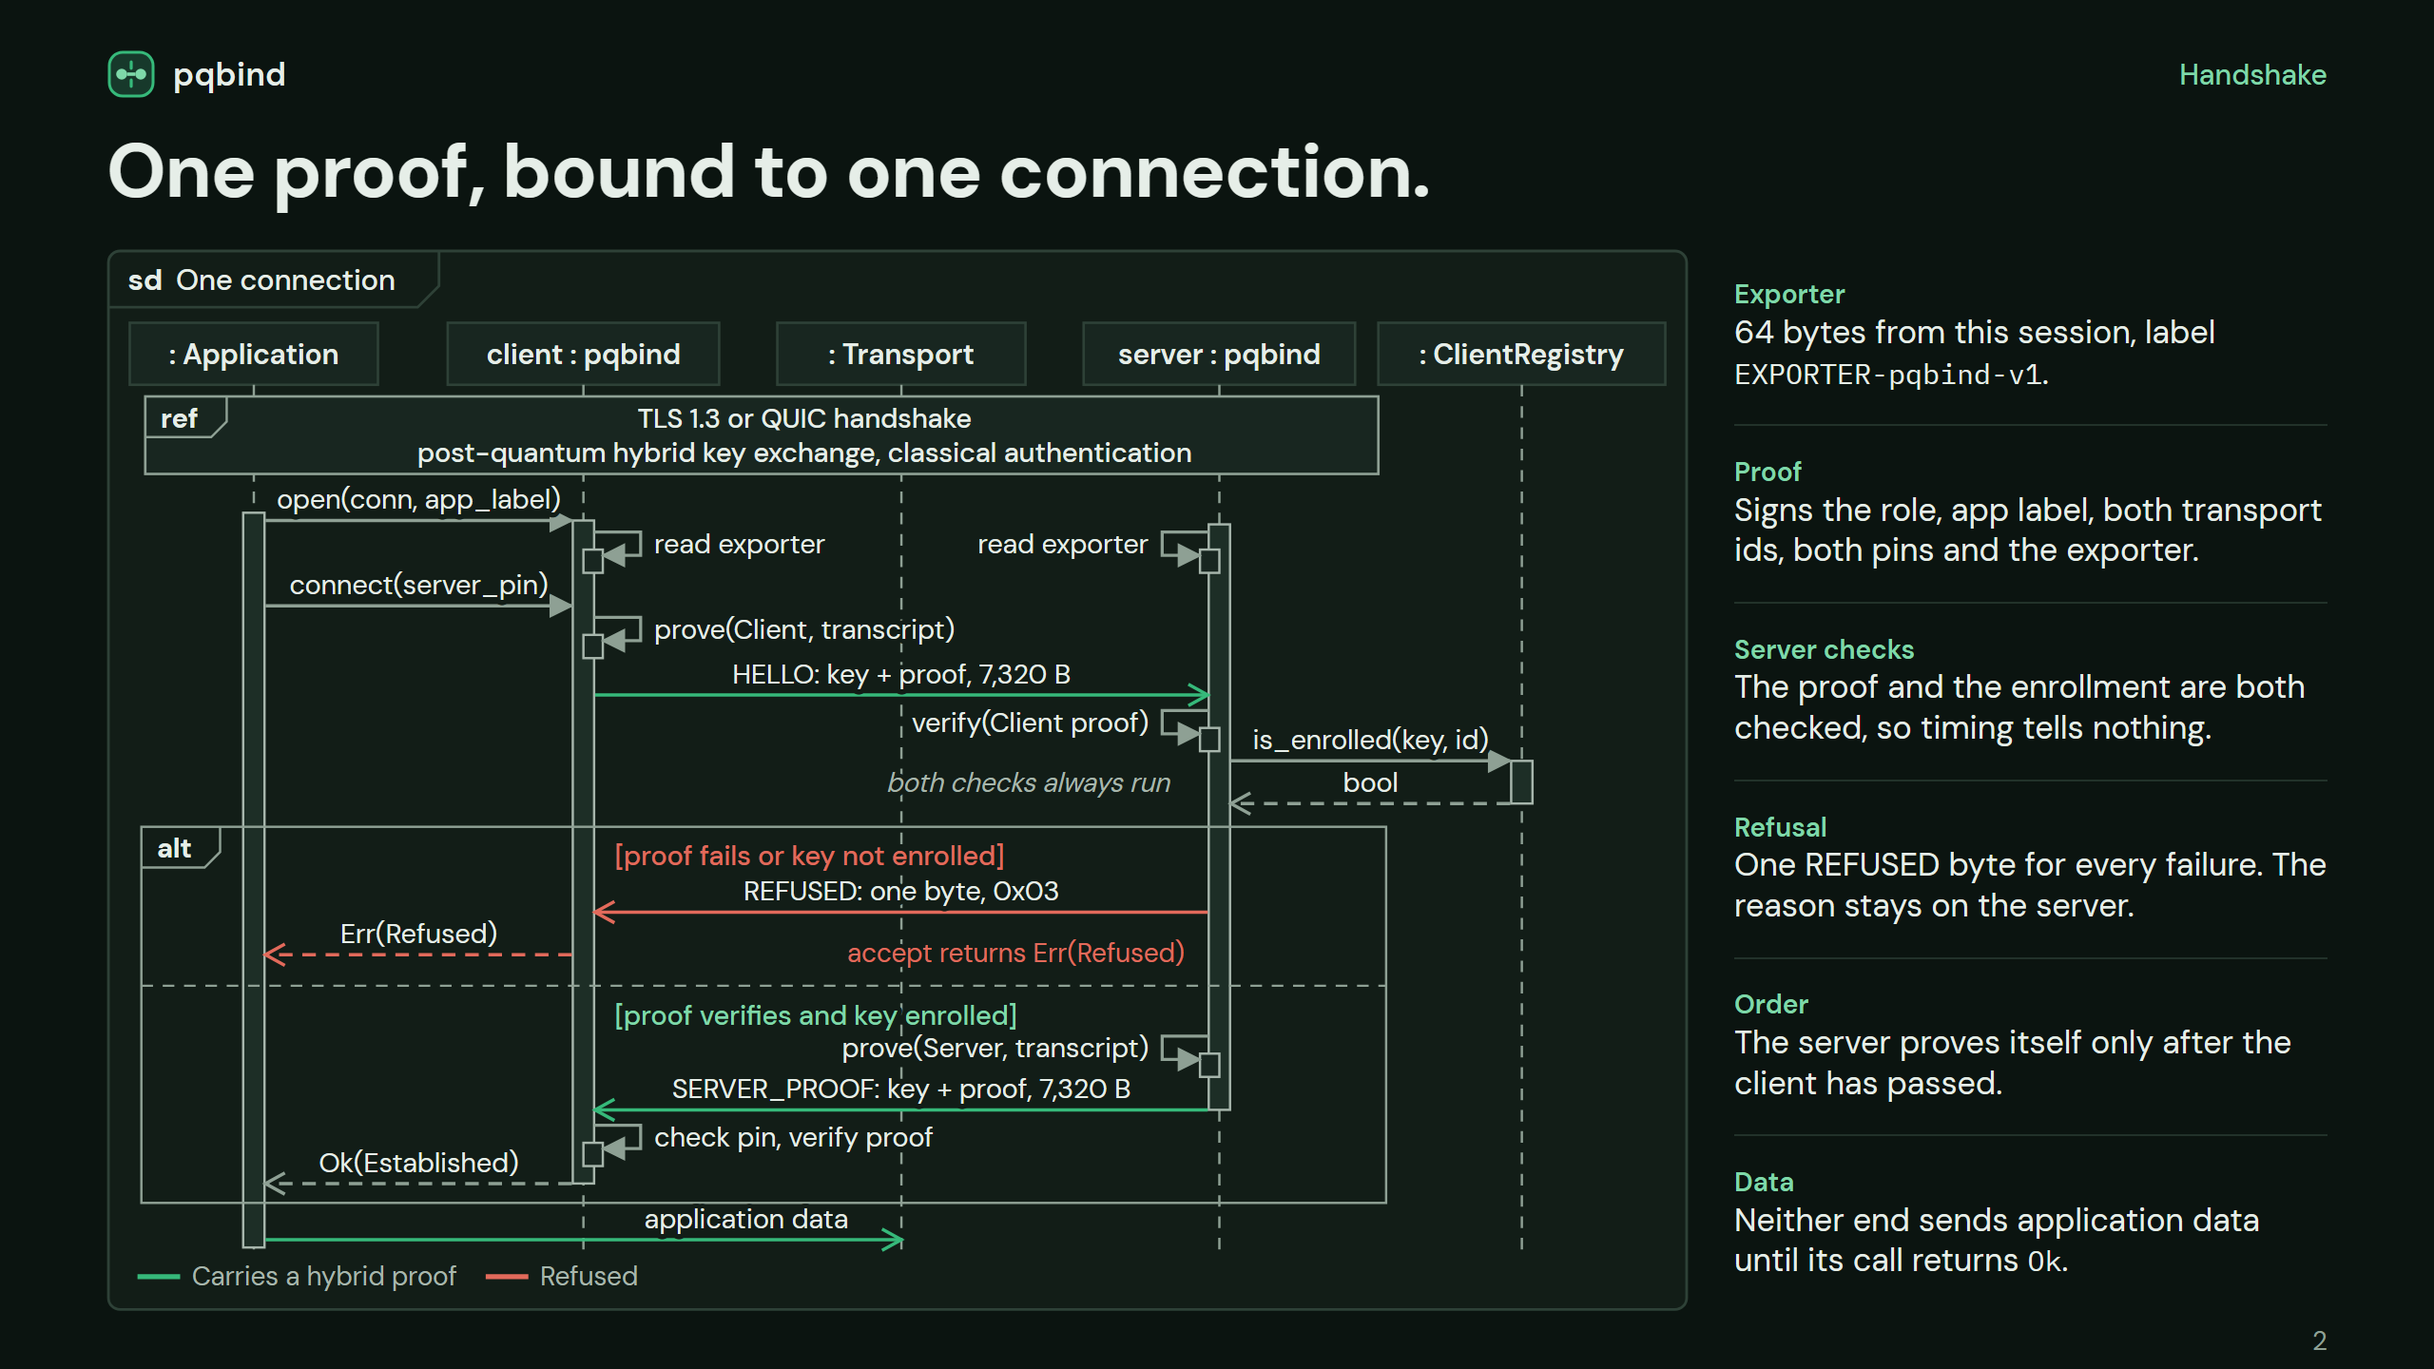
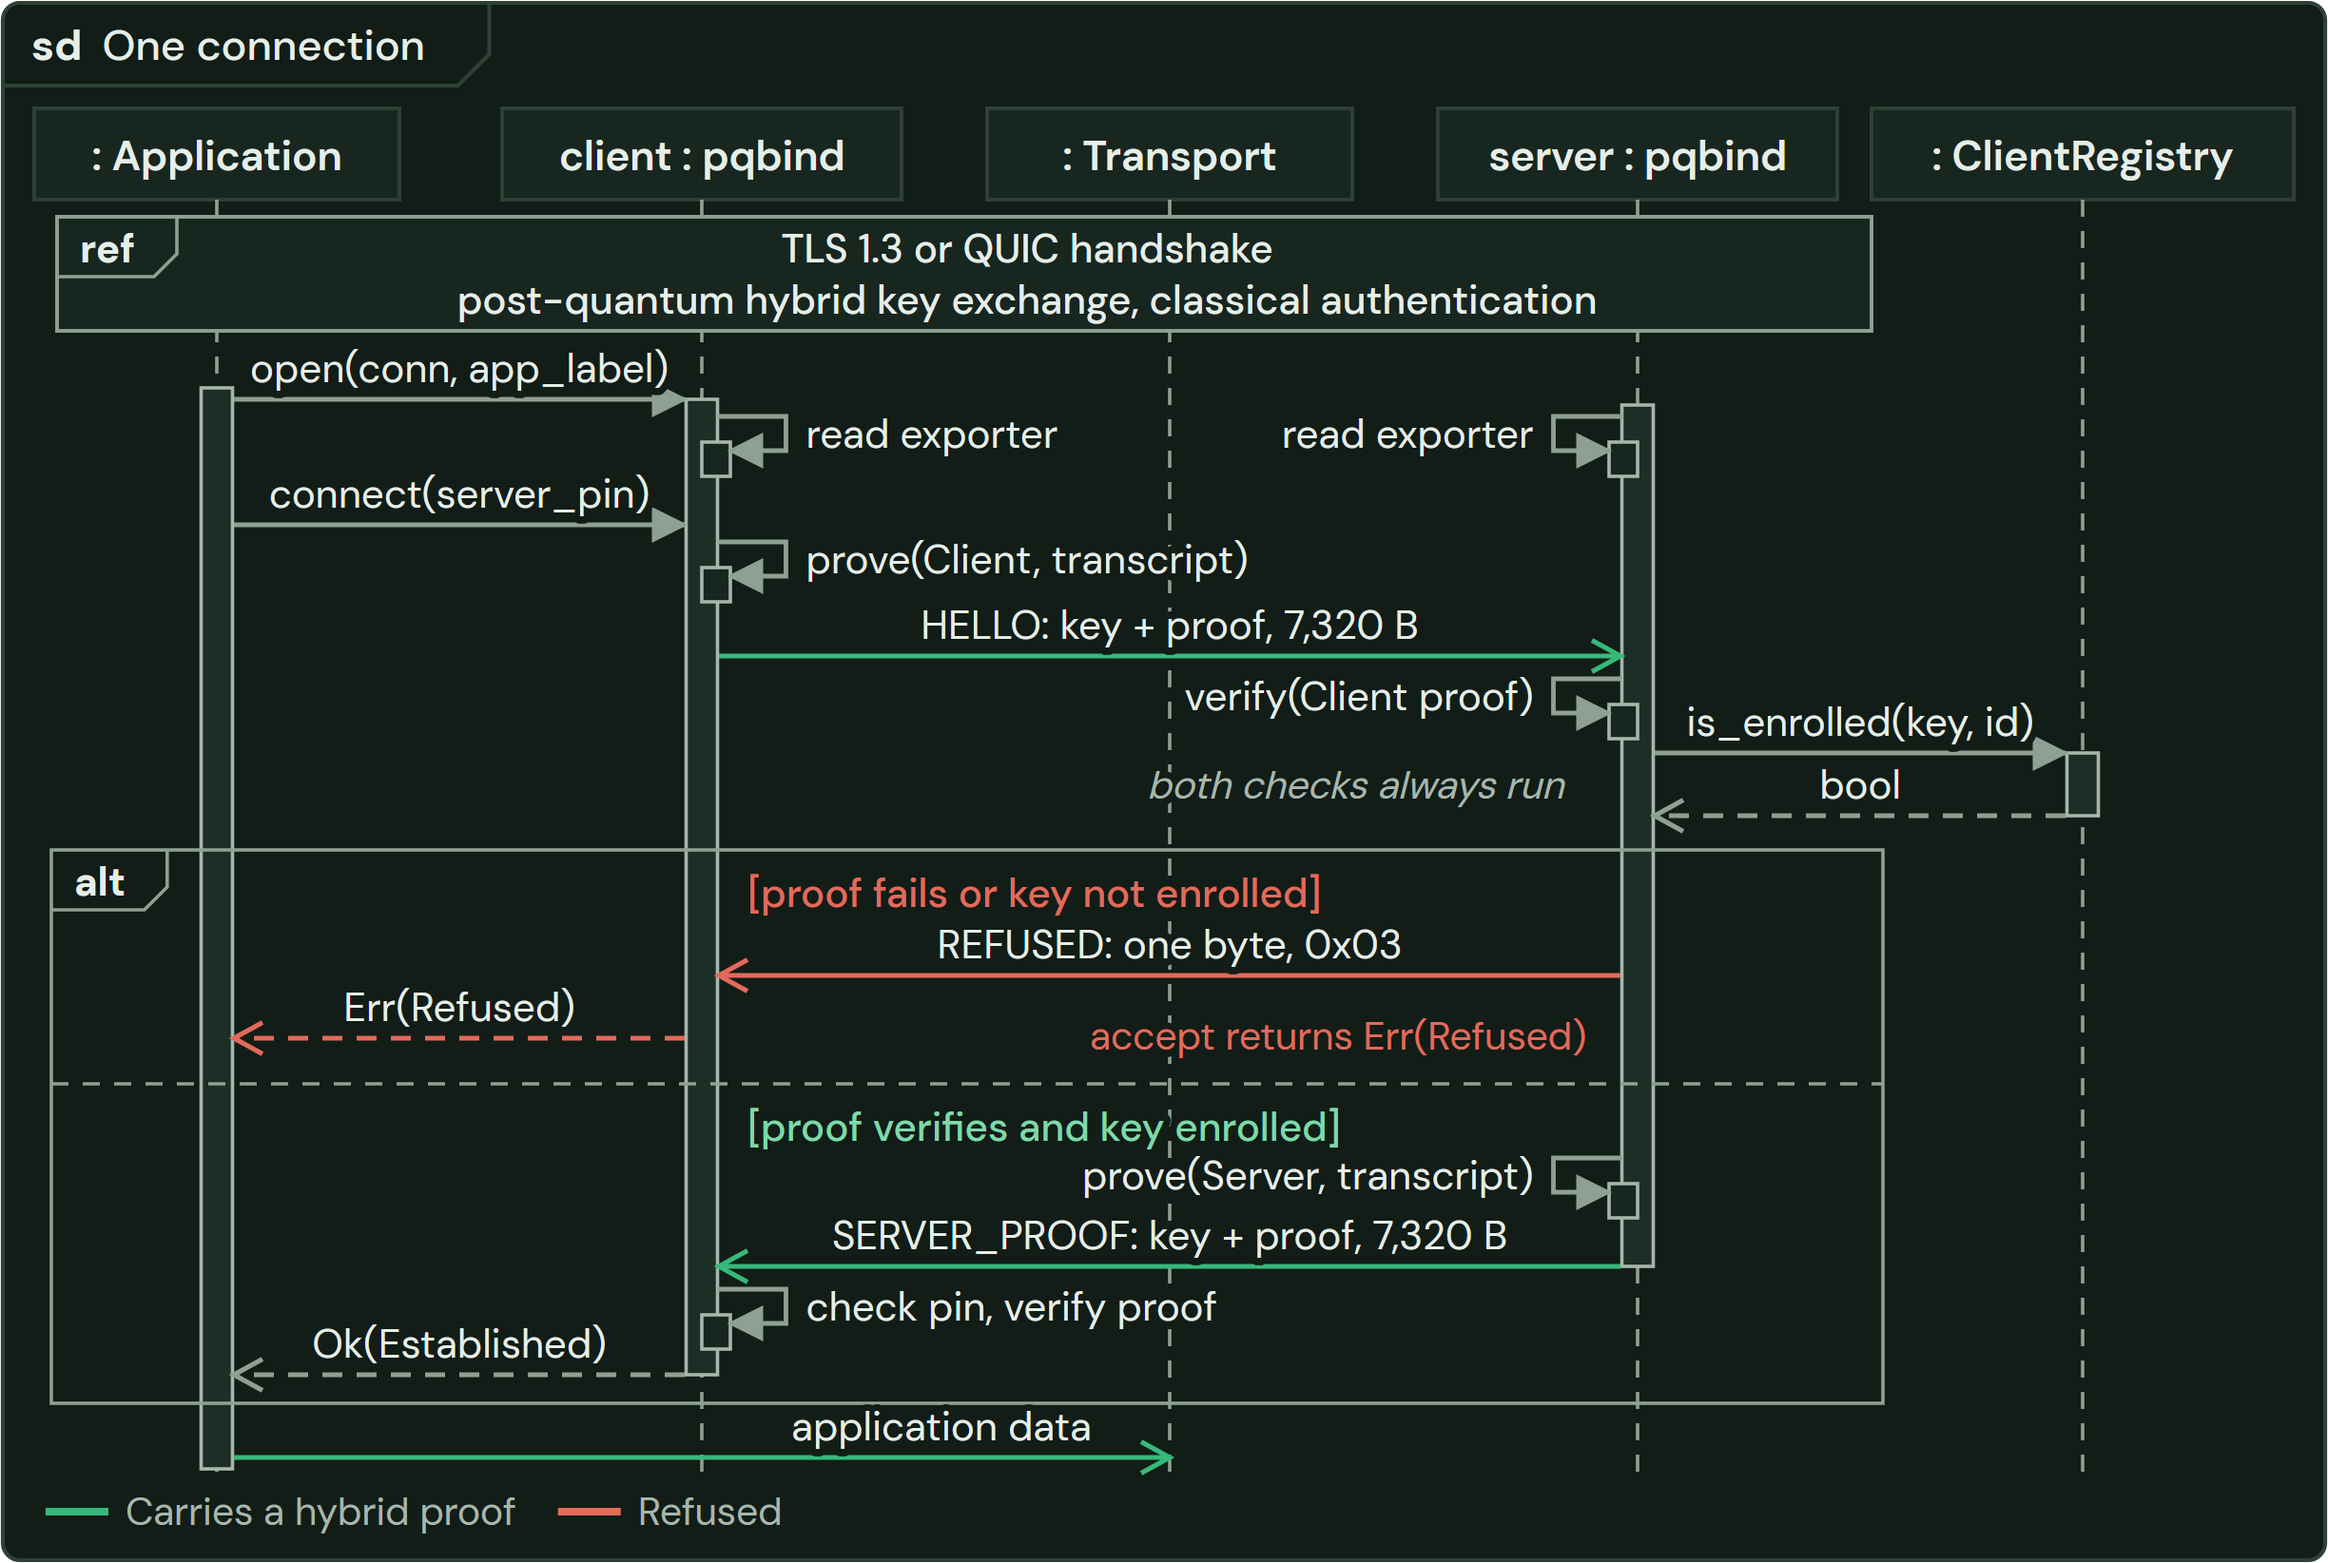
Draw each diagram as its panel alone
The PNGs no longer include the slide title and the callout column, so they read at phone width.

diff --git a/docs/diagrams/src/render.py b/docs/diagrams/src/render.py
@@ -2,7 +2,7 @@
 
 Run with `python -I docs/diagrams/src/render.py` from anywhere. Needs Google Chrome and the DM Sans and IBM Plex Mono
 woff2 files, read from PQBIND_FONTS_DIR (default C:\\dev\\vaultscribe\\packages\\fonts\\files). Writes
-docs/diagrams/diagrams.html, one NN-name.png per slide (1280x720 at device scale 2) and one NN-name.svg per diagram.
+docs/diagrams/diagrams.html, one NN-name.png per diagram (the panel alone, 816x548 at device scale 3) and one NN-name.svg per diagram.
 The output loads nothing from the network. `--check-only` stops after the layout check.
 
 The check prints one line per finding and exits 1 when there is any: text overlapping text, text crossing a wire or
@@ -214,8 +214,9 @@ def render(diagrams):
         png = OUT / f"{slide['file']}.png"
         if png.exists():
             png.unlink()
-        chrome("--window-size=1280,720", "--force-device-scale-factor=2", "--hide-scrollbars", "--virtual-time-budget=5000",
-               f"--screenshot={png}", PAGE.as_uri() + f"#p{n}")
+        # The diagram panel alone, from its standalone SVG, at 3x: no title and no callout column.
+        chrome("--window-size=816,548", "--force-device-scale-factor=3", "--hide-scrollbars", "--virtual-time-budget=5000",
+               f"--screenshot={png}", (OUT / f"{slide['file']}.svg").as_uri())
         if not png.exists():
             print("no PNG for", slide["file"])
             return 1
@@ -248,6 +249,6 @@ if __name__ == "__main__":
     token_text = build(module)
     code = check()
     if "--check-only" not in sys.argv:
-        code = render(module) or code
         standalone_svgs(module, token_text)
+        code = render(module) or code
     sys.exit(code)

diff --git a/docs/diagrams/README.md b/docs/diagrams/README.md
@@ -1,7 +1,7 @@
 # Architecture diagrams
 
 Eight UML 2.5 slides of how pqbind works, each drawn from the code. `diagrams.html` shows all eight in a browser and works
-offline. Each PNG is 1280x720 at device scale 2 (2560x1440). Each SVG is the diagram panel on its own, with the colors
+offline. Each PNG is the diagram panel alone, 816x548 at device scale 3 (2448x1644). Each SVG is the same panel, with the colors
 resolved and the fonts embedded.
 
 | File | UML kind | What it shows | Source files it reflects |
